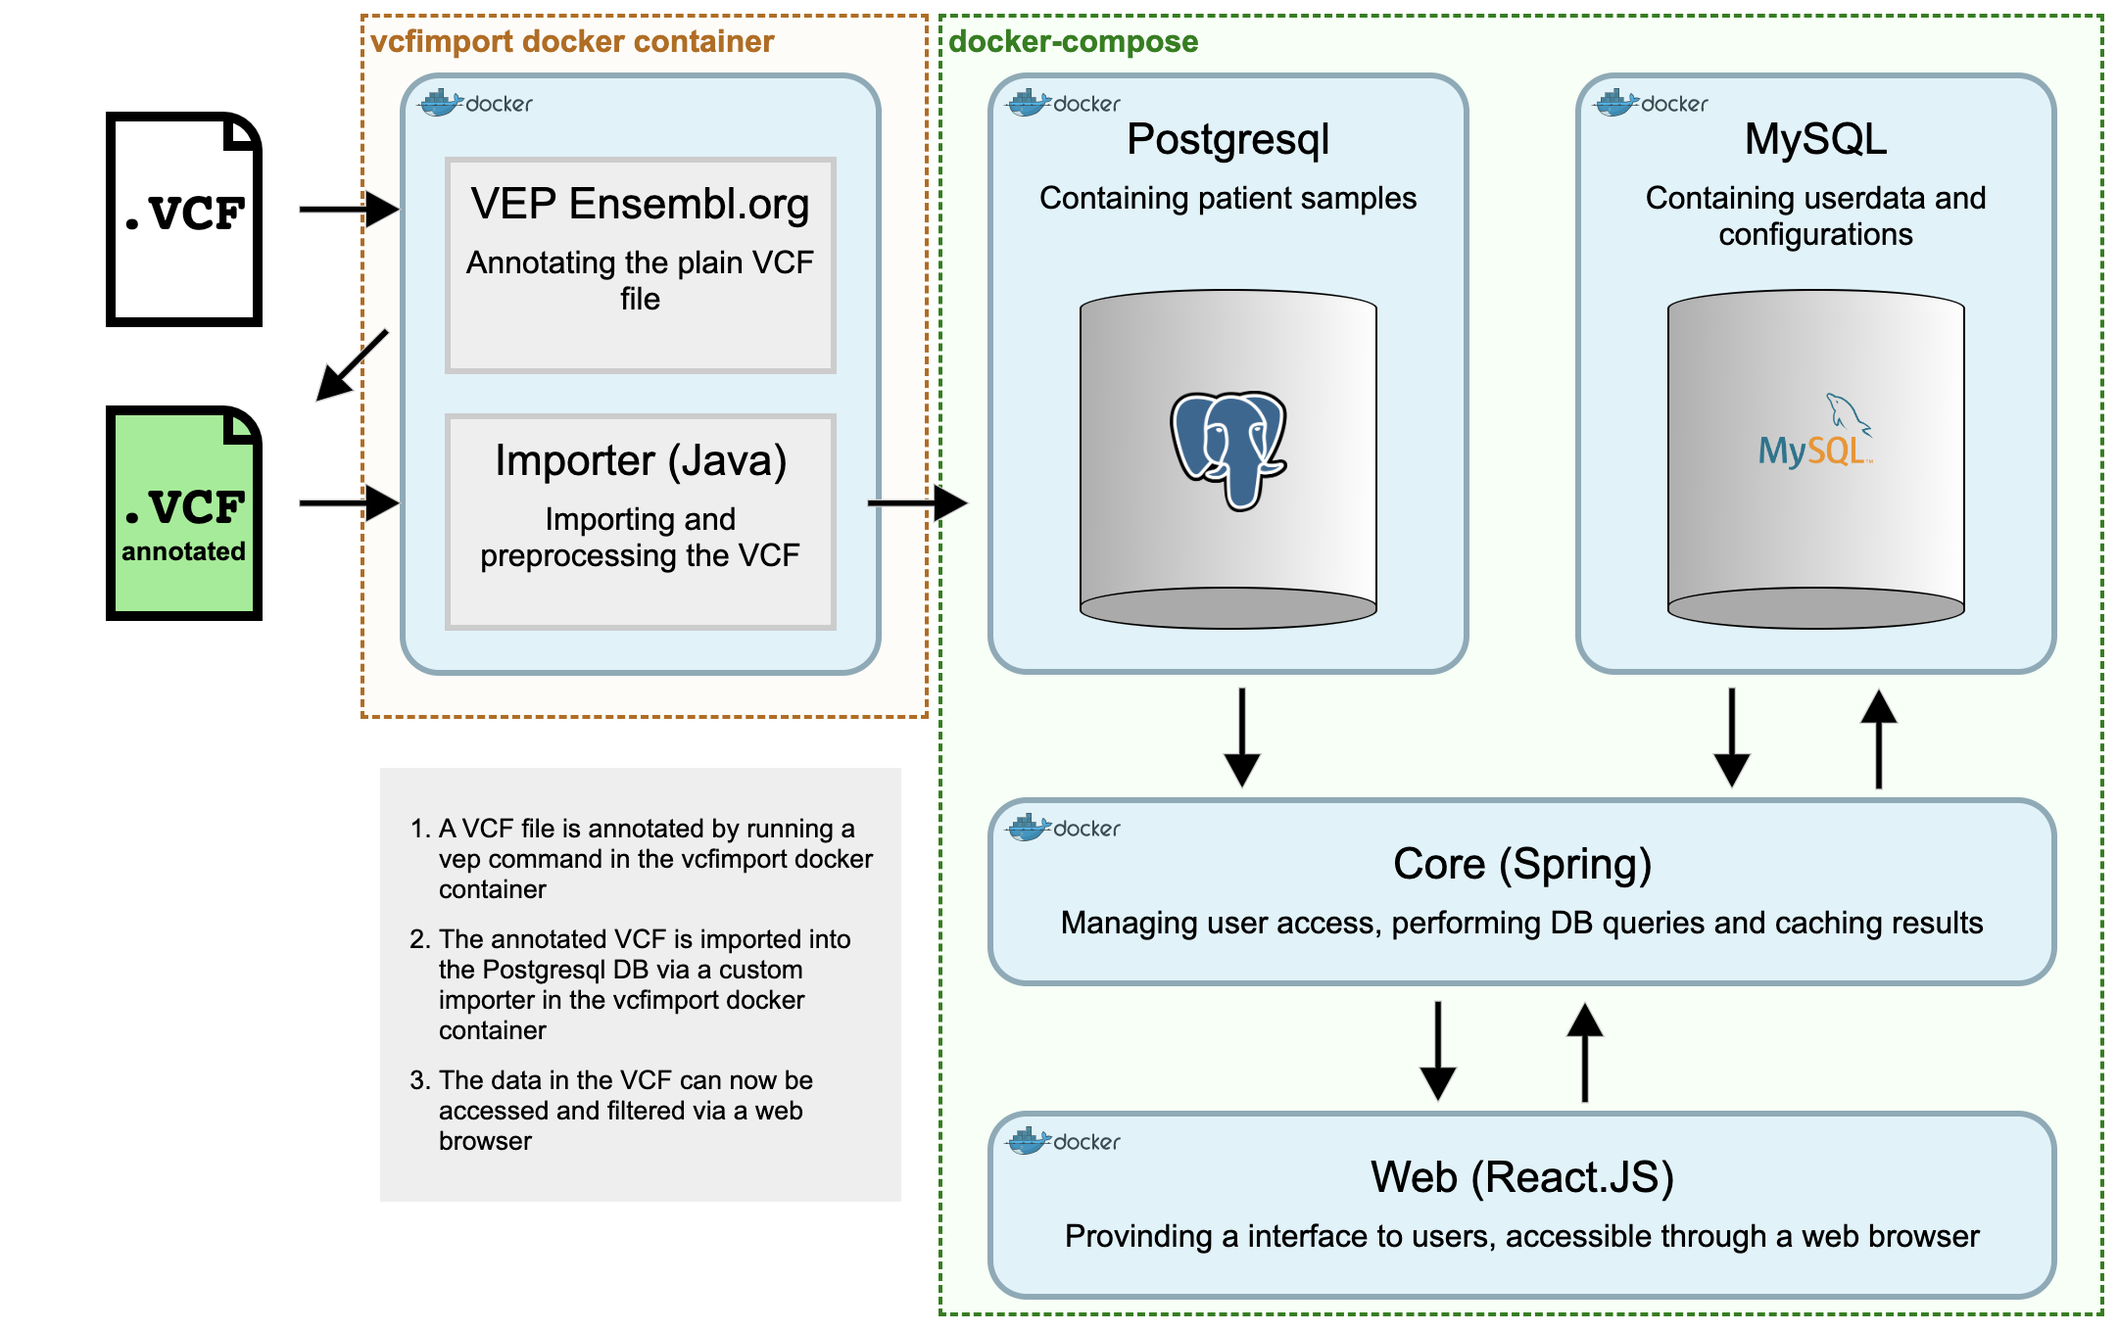
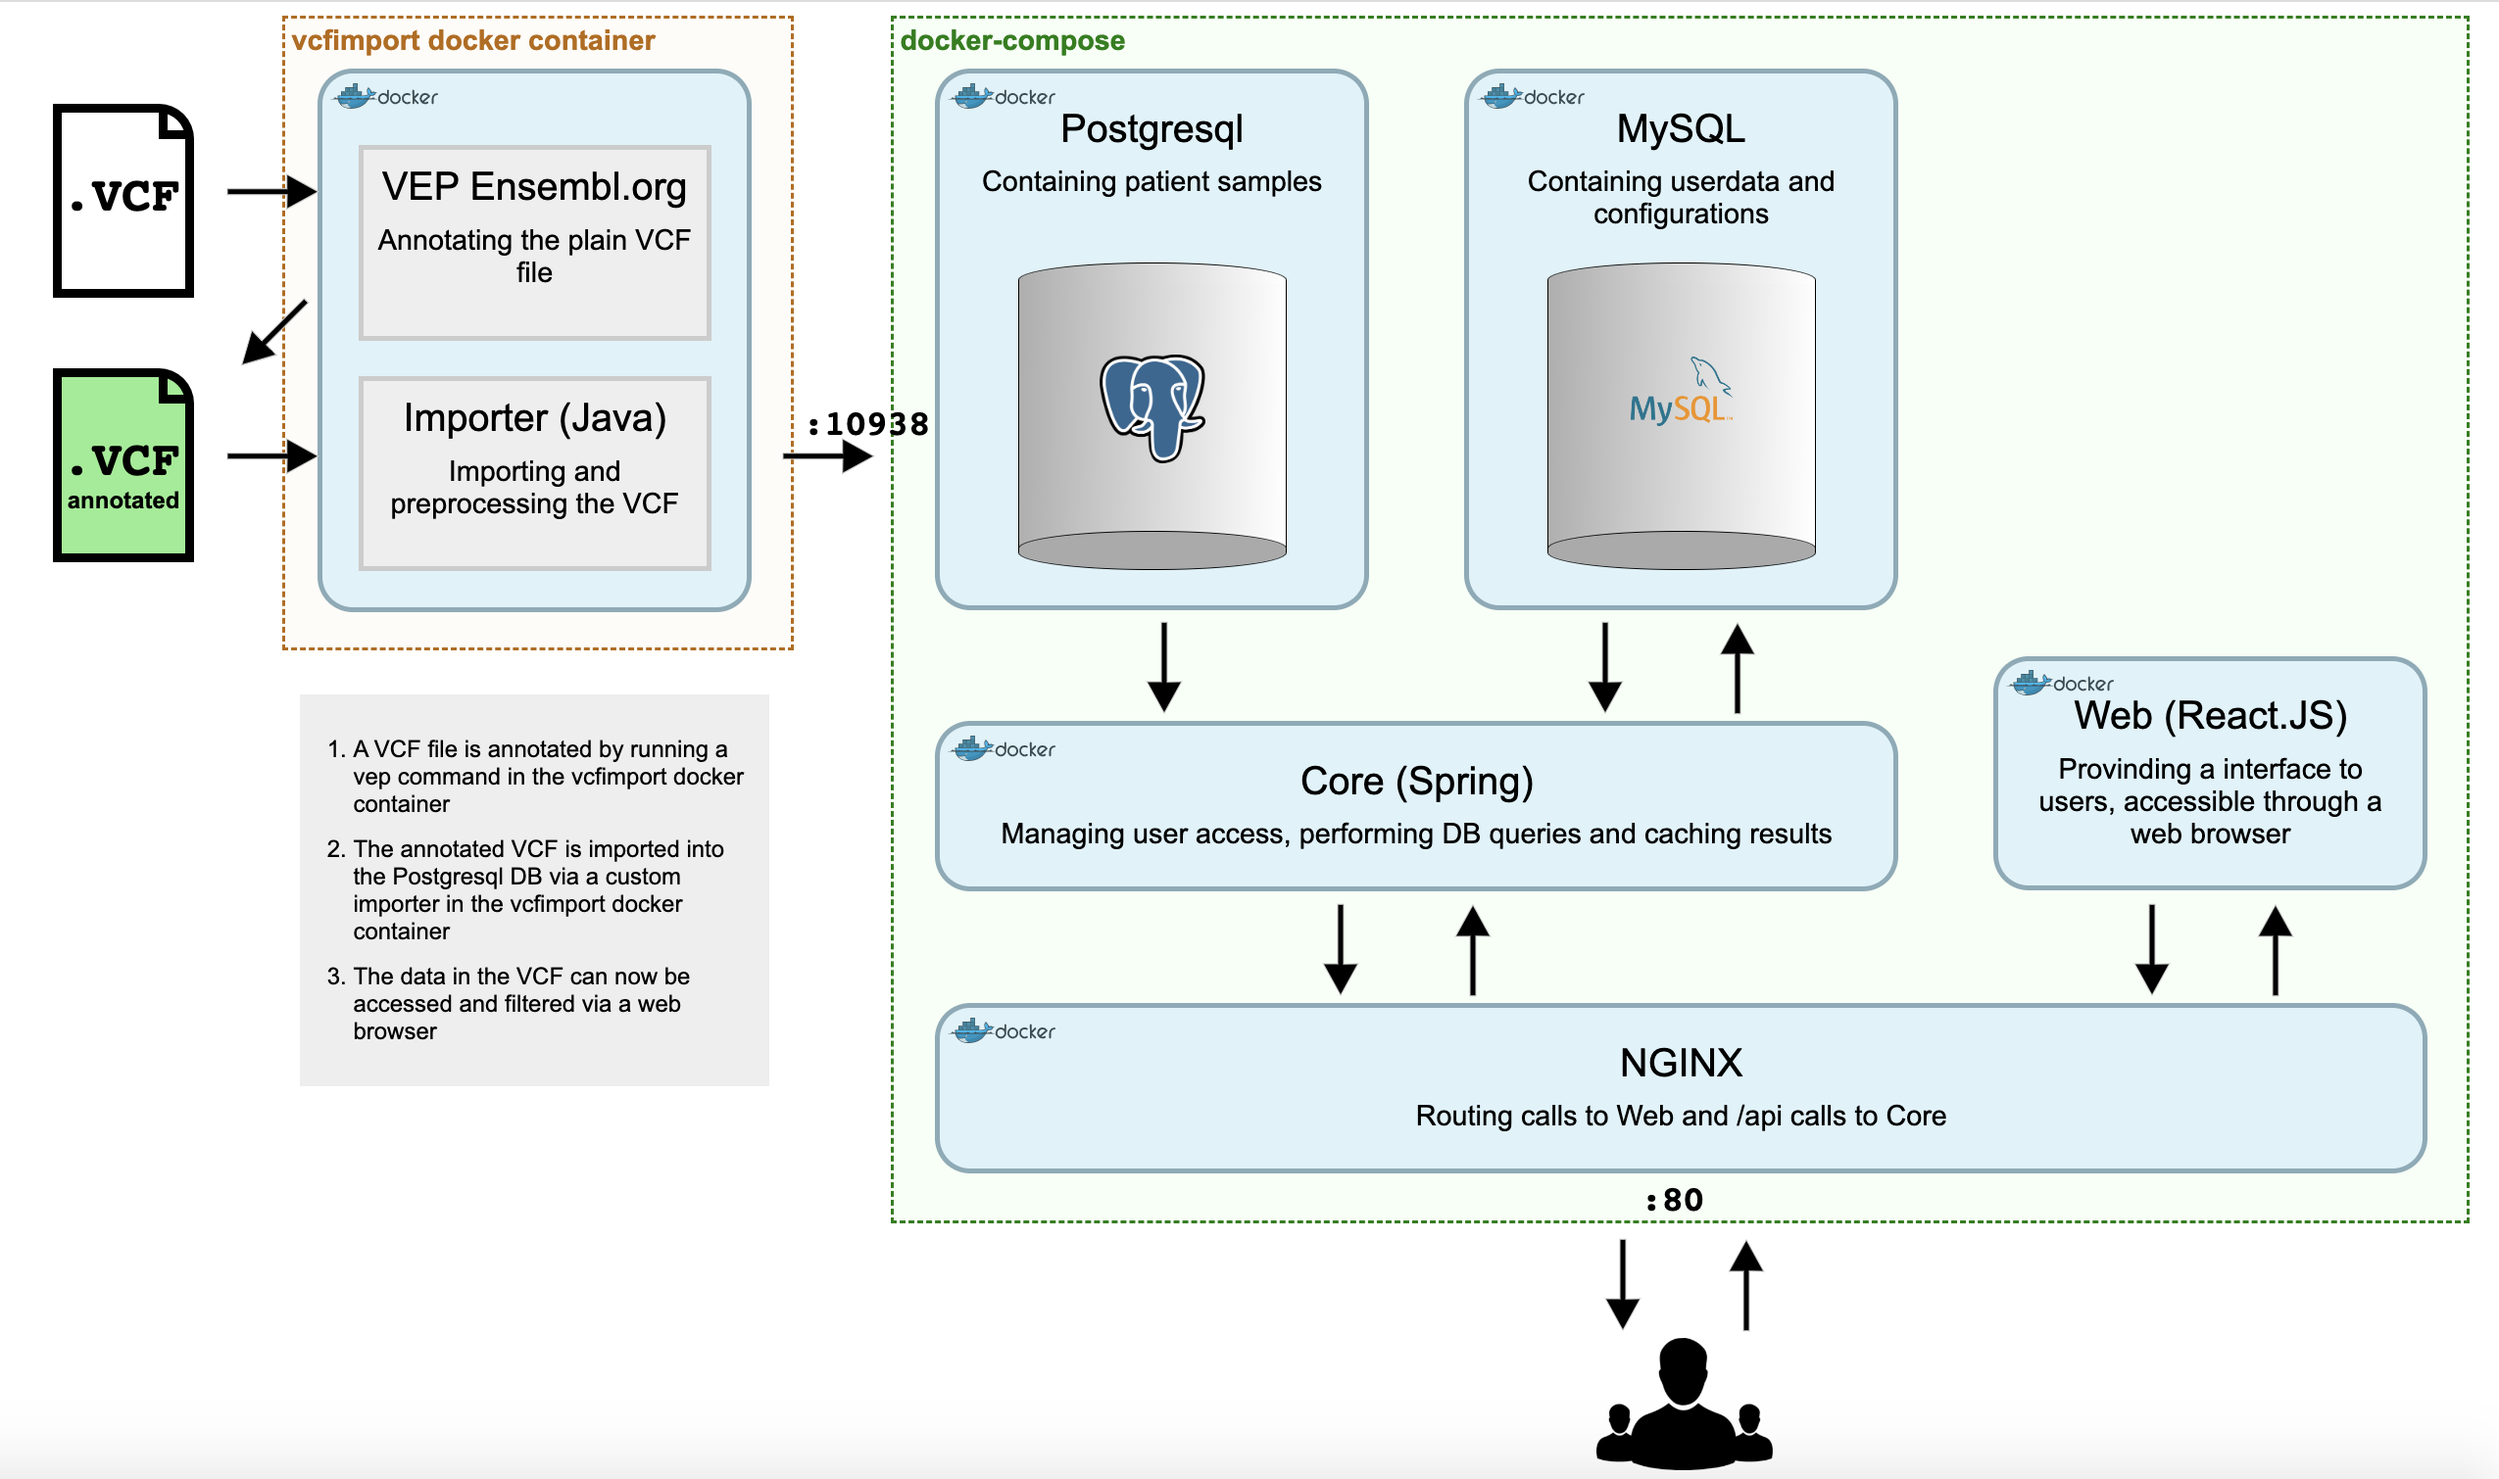
adapt architecure diagram

diff --git a/misc/diagrams/architecture.html b/misc/diagrams/architecture.html
@@ -43,10 +43,13 @@
 				margin-left: 55px;
 			}
 
-			.external {
+			.inner {
+				margin-top: 20px;
 				background: #eee;
+				height: 90px;
+				padding: 5px;
+				padding-top: 10px;
 				border: 3px solid #ccc;
-				background-image: url('https://upload.wikimedia.org/wikipedia/commons/4/4e/Docker_%28container_engine%29_logo.svg');
 				background-size: 60px;
 				background-repeat: no-repeat;
 				background-position: 5px 5px;
@@ -93,22 +96,49 @@
 				border-left: 1px solid;
 			}
 
+			.text {
+				background: #eee;
+				padding: 10px;
+				position: absolute;
+				margin-top: 385px;
+				margin-left: 190px;
+				width: 246px;
+				font-size: 10pt;
+			}
+
+			li {
+				margin-bottom: 10px;
+				margin-left: 0px;
+			}
+
+			ol {
+				padding-left: 20px;
+			}
+
 			.project {
 				position: absolute;
-				height: 690px;
-				width: 900px;
-				margin-left: 475px;
+				height: 350px;
+				width: 280px;
+				margin-left: 180px;
+				margin-top: 0px;
 				border: 2px dashed #b96a00;
 				background: #fffcf8;
+				padding: 3px;
+				color: #b96a00;
+				font-weight: bold;
+				z-index: -1;
 			}
 
 			.compose {
 				position: absolute;
-				height: 655px;
-				width: 585px;
-				margin-left: 775px;
-				margin-top: 15px;
+				height: 675px;
+				width: 885px;
+				margin-left: 525px;
+				margin-top: 0px;
+				padding: 3px;
 				border: 2px dashed green;
+				color: green;
+				font-weight: bold;
 				background: #f5fff5;
 			}
 
@@ -116,32 +146,54 @@
 				position: absolute;
 				z-index: 1000;
 			}
+
+			.filetextsmall {
+				font-size: 10pt;
+				display: block;
+				margin-left: 3px;
+			}
+
+			.port {
+				font-family: monospace;
+				font-weight: bold;
+				font-size: 15pt;
+			}
 		</style>
 	</head>
 	<body>
-		<div style="margin-left: 50px; margin-top: 200px;" class="file">
+		<div style="margin-left: 50px; margin-top: 50px;" class="file">
 			<div class="filedent"></div>
 			.VCF
 		</div>
-		<div style="margin-left: 200px; margin-top: 200px;" class="container half external">
-			<h2>VEP Ensembl.org</h2>
-			Annotating the plain VCF file
-		</div>
-		<div class="project"></div>
-		<div class="compose"></div>
-		<div style="margin-left: 500px; margin-top: 200px;" class="container half">
-			<h2>Importer (Java)</h2>
-			Importing and preprocessing the VCF
-		</div>
-		<div style="margin-left: 800px; margin-top: 400px;" class="container">
+		<div style="margin-left: 50px; margin-top: 200px; background: lightgreen" class="file">
+			<div class="filedent"></div>
+			.VCF<span class="filetextsmall">annotated</span>
+		</div>		
+		<div class="project">vcfimport docker container</div>
+		<div class="compose">docker-compose</div>
+		<div class="container half" style="margin-left: 200px;">
+			<div class="inner external">
+				<h2>VEP Ensembl.org</h2>
+				Annotating the plain VCF file
+			</div>
+			<div class="inner">
+				<h2>Importer (Java)</h2>
+				Importing and preprocessing the VCF
+			</div>
+		</div>	
+		<div style="margin-left: 550px; margin-top: 400px;" class="container">
 			<h2>Core (Spring)</h2>
 			Managing user access, performing DB queries and caching results
 		</div>
-		<div style="margin-left: 800px; margin-top: 560px;" class="container">
+		<div style="margin-left: 1150px; margin-top: 363px;" class="container half">
 			<h2>Web (React.JS)</h2>
 			Provinding a interface to users, accessible through a web browser 
 		</div>		
-		<div style="margin-left: 1100px;" class="container half">
+		<div class="container" style="margin-left: 550px; margin-top: 560px; width: 800px;">
+			<h2>NGINX</h2>
+			Routing calls to Web and /api calls to Core 
+		</div>				
+		<div style="margin-left: 850px;" class="container half">
 			<h2>MySQL</h2>
 			Containing userdata and configurations<br/><br/>
 			<div class="elipse">
@@ -152,7 +204,7 @@
 			<div class="elipse bottom">
 			</div>
 		</div>
-		<div style="margin-left: 800px;" class="container half">
+		<div style="margin-left: 550px;" class="container half">
 			<h2>Postgresql</h2>
 			Containing patient samples<br/><br/><br/>
 			<div class="elipse">
@@ -163,17 +215,39 @@
 			<div class="elipse bottom">
 			</div>
 		</div>
-		<img style="margin-left: 900px; margin-top: 340px;" class="arrow" src="https://upload.wikimedia.org/wikipedia/commons/e/e0/Arrow_head_down.svg" /> <!-- postgres to core -->
-		<img style="margin-left: 1000px; margin-top: 500px;" class="arrow" src="https://upload.wikimedia.org/wikipedia/commons/e/e0/Arrow_head_down.svg" /> <!-- core to web -->		
-		<img style="margin-left: 1075px; margin-top: 500px;" class="arrow" src="https://upload.wikimedia.org/wikipedia/commons/b/b5/Arrow_head_up.svg" /> <!-- web to core -->		
+		<img style="margin-left: 650px; margin-top: 340px;" class="arrow" src="https://upload.wikimedia.org/wikipedia/commons/e/e0/Arrow_head_down.svg" /> <!-- postgres to core -->
+		<img style="margin-left: 750px; margin-top: 500px;" class="arrow" src="https://upload.wikimedia.org/wikipedia/commons/e/e0/Arrow_head_down.svg" /> <!-- core to nginx -->		
+		<img style="margin-left: 825px; margin-top: 500px;" class="arrow" src="https://upload.wikimedia.org/wikipedia/commons/b/b5/Arrow_head_up.svg" /> <!-- nginx to core -->		
 
-		<img style="margin-left: 1150px; margin-top: 340px;" class="arrow" src="https://upload.wikimedia.org/wikipedia/commons/e/e0/Arrow_head_down.svg" /> <!-- mysql -->		
-		<img style="margin-left: 1225px; margin-top: 340px;" class="arrow" src="https://upload.wikimedia.org/wikipedia/commons/b/b5/Arrow_head_up.svg" /> <!-- mysql -->	
 
-		<img style="margin-left: 445px; margin-top: 220px;" class="arrow" src="https://upload.wikimedia.org/wikipedia/commons/e/e9/Arrow_head_right.svg" /> <!-- to import -->
+		<img style="margin-left: 1210px; margin-top: 500px;" class="arrow" src="https://upload.wikimedia.org/wikipedia/commons/e/e0/Arrow_head_down.svg" /> <!-- nginx to web -->		
+		<img style="margin-left: 1280px; margin-top: 500px;" class="arrow" src="https://upload.wikimedia.org/wikipedia/commons/b/b5/Arrow_head_up.svg" /> <!-- web to nginx -->		
 
-		<img style="margin-left: 745px; margin-top: 220px;" class="arrow" src="https://upload.wikimedia.org/wikipedia/commons/e/e9/Arrow_head_right.svg" /> <!-- to post -->
+		<img style="margin-left: 900px; margin-top: 340px;" class="arrow" src="https://upload.wikimedia.org/wikipedia/commons/e/e0/Arrow_head_down.svg" /> <!-- mysql -->		
+		<img style="margin-left: 975px; margin-top: 340px;" class="arrow" src="https://upload.wikimedia.org/wikipedia/commons/b/b5/Arrow_head_up.svg" /> <!-- mysql -->	
 
-		<img style="margin-left: 135px; margin-top: 220px;" class="arrow" src="https://upload.wikimedia.org/wikipedia/commons/e/e9/Arrow_head_right.svg" /> <!-- to vep -->		
+		<img style="margin-left: 145px; margin-top: 220px;" class="arrow" src="https://upload.wikimedia.org/wikipedia/commons/e/e9/Arrow_head_right.svg" /> <!-- to import -->
+
+		<img style="margin-left: 460px; margin-top: 220px;" class="arrow" src="https://upload.wikimedia.org/wikipedia/commons/e/e9/Arrow_head_right.svg" /> <!-- to post -->
+
+		<img style="margin-left: 145px; margin-top: 70px;" class="arrow" src="https://upload.wikimedia.org/wikipedia/commons/e/e9/Arrow_head_right.svg" /> <!-- to vep -->		
+
+		<img style="margin-left: 145px; margin-top: 150px; transform: rotate(135deg);" class="arrow" src="https://upload.wikimedia.org/wikipedia/commons/e/e9/Arrow_head_right.svg" /> <!-- from vep to import -->	
+
+		<img style="margin-left: 925px; margin-top: 750px; width: 100px;" class="arrow" src="https://upload.wikimedia.org/wikipedia/commons/3/3d/ILF_User_Management.png" />
+
+		<img style="margin-left: 910px; margin-top: 690px;" class="arrow" src="https://upload.wikimedia.org/wikipedia/commons/e/e0/Arrow_head_down.svg" /> <!-- nginx to user -->		
+		<img style="margin-left: 980px; margin-top: 690px;" class="arrow" src="https://upload.wikimedia.org/wikipedia/commons/b/b5/Arrow_head_up.svg" /> <!-- user to nginx -->		
+
+		<div class="arrow port" style="margin-left: 950px; margin-top: 660px;">:80</div>
+		<div class="arrow port" style="margin-left: 475px; margin-top: 220px;">:10938</div>
+
+		<div class="text">
+			<ol>
+				<li>A VCF file is annotated by running a vep command in the vcfimport docker container</li>
+				<li>The annotated VCF is imported into the Postgresql DB via a custom importer in the vcfimport docker container</li>
+				<li>The data in the VCF can now be accessed and filtered via a web browser</li>
+			</ol>
+		</div>
 	</body>
 </html>
